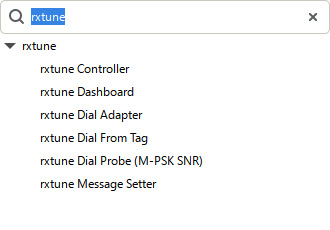
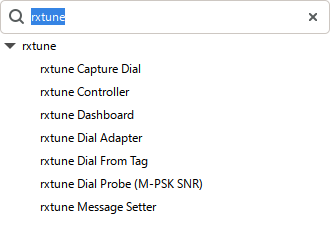
Overnight campaign written up; counting-dial verdict wording; controller mode string; walkthrough: the loop on a real radio; seven-block tree shot

diff --git a/src/rxtune/verdict.py b/src/rxtune/verdict.py
@@ -90,8 +90,8 @@ def observed_cliff(result: SearchResult, spec: DialSpec, max_spread: float = 1.5
     decoding, the curve itself brackets it: the best STEADY cell that did not decode
     and the worst steady cell that did. Unsteady cells are excluded - a median taken
     across bursts says little about where the cliff is."""
-    if spec.cliff is not None:
-        return None
+    if spec.cliff is not None or not spec.continuous_below_cliff:
+        return None                        # a counting dial has no threshold to bracket
     steady = [p for p in result.points if p.score is not None and p.reading.spread <= max_spread
               and p.reading.alive is not None and not (p.reading.overload == p.reading.overload
                                                        and p.reading.overload >= 0.3)]
@@ -148,6 +148,11 @@ def judge(result: SearchResult, spec: DialSpec, gain_of: Callable[[Point], float
         rep.evidence["messages_counted"] = float(counted)
         if counted < MIN_COUNTED:
             recommend = False
+            if rep.shape in RECOMMENDABLE:
+                # "HEALTHY ... not recommended" reads as a contradiction: say what it is
+                rep.shape = Shape.UNPROVEN
+                rep.rule = (f"{counted} decoded message(s) is not enough evidence to call any "
+                            "setting better than another")
             rep.notes.append(f"only {counted} decoded message(s) in the whole run (< {MIN_COUNTED}): "
                              "too few to rank settings. Repeat with more traffic or longer windows.")
 

diff --git a/python/rxtune/controller.py b/python/rxtune/controller.py
@@ -236,7 +236,7 @@ class controller(gr.basic_block):
         self.message_port_pub(pmt.intern("status"), pmt.to_pmt(_plain(
             {"state": self.state, "reason": "cell start", "setting": setting, "settle_s": settle,
              "window_scale": scale, "cell": len(self.tuner.result.points) + 1,
-             "mode": "device-handle" if self.frontend is not None else "message"})))
+             "mode": self._mode()})))
         self.acc = Accumulator(self.spec, time.monotonic(), settle_s=self.spec.settle_s + settle,
                                window_s=self.spec.window_s * scale)
 
@@ -297,11 +297,14 @@ class controller(gr.basic_block):
         else:
             self._sag_since = None
 
+    def _mode(self):
+        return ("device-handle" if self.frontend is not None else
+                "message + readback" if self._readback_seen else "message (open-loop)")
+
     def _status(self, reason, reading=None):
         n = len(self.tuner.result.points) if self.tuner else 0
         doc = {"state": self.state, "cell": n, "setting": dict(self.pending or {}), "reason": reason,
-               "mode": ("device-handle" if self.frontend is not None else
-                        "message + readback" if self._readback_seen else "message (open-loop)")}
+               "mode": self._mode()}
         if reading is not None:
             doc.update({"value": reading.value, "alive": reading.alive, "level_db": reading.level_db,
                         "overload": reading.overload, "n": reading.n})

diff --git a/tests/test_core.py b/tests/test_core.py
@@ -392,3 +392,20 @@ def test_one_failed_knob_does_not_stop_the_others_being_written():
         apply(FE(), {"antenna": "B", "g": 7})
     assert box["g"] == 7, "the gain knob must still have been written"
     assert "antenna" in str(e.value)
+
+
+def test_a_counting_dial_needs_evidence_before_it_may_rank():
+    """From the ADS-B hardware runs: 2 and then 5 messages in a whole search."""
+    from rxtune.dial import Reading
+    from rxtune.verdict import judge
+    spec = DialSpec("msg_rate", "msgs/s", continuous_below_cliff=False, settle_s=0, window_s=1)
+    axis = Axis.of(KnobSpec("g", "range", 0, 3, 1, sense="gain"))
+
+    def measure(setting):
+        n = [0, 3, 2, 0][setting["g"]]
+        return Reading(value=n / 10.0, score=n / 10.0, n=max(1, n), p10=n / 10.0, p90=n / 10.0, alive=n > 0)
+    t = Tuner([axis], spec, pick="max", confirm=False)
+    v = judge(t.run(measure), spec, t.gain_of)
+    assert v.shape is Shape.UNPROVEN and not v.ok
+    assert not any("decode threshold" in n for n in v.notes)
+    assert any("too few to rank" in n for n in v.notes)

diff --git a/docs/TEST_REPORT.md b/docs/TEST_REPORT.md
@@ -13,7 +13,7 @@ How to repeat everything is at the end.
 
 | Area | Result |
 |---|---|
-| Core library, no radio (pytest) | **124 passed**, 0 failed |
+| Core library, no radio (pytest) | **126 passed**, 0 failed |
 | `rxtune selftest` | **13 / 13 gates PASS** |
 | GNU Radio block QA (9 files) | **22 passed**, 0 failed |
 | Closed loop over stock DSP, headless, no Qt | **PASS** |
@@ -23,11 +23,12 @@ How to repeat everything is at the end.
 | Hardware: FM HD (NRSC-5), attachment mode (a) | **PASS** on the third run — HEALTHY, decoding, agrees with an independent prior calibration (runs 1-2 found 3 defects) |
 | Hardware: ATSC 1.0, attachment mode (c) | **PASS** — HEALTHY, +2.9 dB, decoding. Graceful decoder stop FAILED 16 / 27 in the first run; fixed; re-test 0 / 7 |
 | Hardware: ATSC 3.0 (library AND in a GRC flowgraph), port survey, TV in a GNU Radio window | **PASS** - see 6b |
-| Hardware: ADS-B (blind dial) | **INCONCLUSIVE** - too little night traffic; to be repeated |
+| Hardware: ADS-B (blind dial) | **INCONCLUSIVE** twice (1 a.m. and 6 a.m.): too few messages on this antenna; the verdict refuses to rank |
+| Overnight recalibration loop, 5 h unattended | **PASS** - 10 / 10 HEALTHY; the carrier did not go stale, so staleness itself was not demonstrated |
 | CMake install | **NOT RUN** (no cmake on this machine) |
 | Linux / Raspberry Pi | **NOT RUN** |
 
-Twenty defects were found by this testing and fixed; three defects were found in
+Twenty-two defects were found by this testing and fixed; three defects were found in
 *other people's* blocks and are written up in §8.
 
 ## 1. Core library (`pytest`, 118 tests, ~4 s)
@@ -271,7 +272,32 @@ pure-Python project that was not modified; rxtune only runs its commands.
   and `tune()`'s exit released it. The adapter is now re-entrant.
 
 Not done: the bias-T / hot-LNA case (no LNA was inline; DC was not put on a passive antenna).
-Overnight recalibration results: see the end of this section once the run completes.
+**Overnight recalibration** (`util/night_watch.py`, detached, one ATSC 3.0 carrier re-tuned every
+30 minutes from 01:24 to 05:54, 12 cells per round, lab-priority lock, no contention):
+
+| | |
+|---|---|
+| calibrations | **10 of 10 `HEALTHY`, decoding** |
+| best dial | 22.2 .. 23.3 dB SNR (swing 1.1 dB) |
+| best setting | 3 distinct picks, all within one LNA state and mostly the same IF reduction |
+
+Honest reading: the loop, the detached launcher, the lock discipline and the hour log all
+held up for five hours unattended - but **this carrier did not go stale tonight**, so the claim
+"every configuration goes stale, recalibrate forever" was *exercised*, not *demonstrated*. It
+needs a carrier that actually moves (the weak LDM carrier would, if it decoded here at all).
+
+**ADS-B again at 06:20** with morning traffic starting: still thin on this antenna - 5 CRC-valid
+messages across the search. Head-to-head, three interleaved rounds of 15 s captures: rxtune's
+pick 0.7 msgs/s, maximum gain 0.4, hardware AGC 0.1. Suggestive; with ~20 messages in total it
+is **not significant**, and the verdict says so (`UNPROVEN`, nothing recommended). A real ADS-B
+antenna and daytime traffic are needed before this comparison means anything.
+
+The first two launches of the overnight loop failed, and one of them found the most
+dangerous bug of the night: an antenna port name containing a space was mangled by shell quoting,
+its readback failed, and `apply()` **stopped at the first failed knob - so the gain knobs were
+never written**. Every cell measured the same radio state. It was caught only because the raw
+level did not move between cells. `apply()` now writes every knob and reports failures
+afterwards; the scheduler takes its targets from a JSON file, not a quoted string.
 
 ## 7. Defects found by this testing, all fixed
 
@@ -302,6 +328,8 @@ Overnight recalibration results: see the end of this section once the run comple
 18. A pick whose confirmation did not reproduce was allowed to stand.
 19. A message-rate dial ranked settings on two messages; now needs 200.
 20. The GNU Radio capture block converted every sample in Python and dropped samples silently.
+21. `apply()` stopped at the first knob whose readback failed: the remaining knobs were never written.
+22. Verdict wording for counting dials: a "decode threshold" in msgs/s, and "HEALTHY ... not recommended".
 
 Also caught in the test harness itself: a rate probe goes *stale*, not to zero,
 when its upstream dies (so it cannot detect a stopped source — count items

diff --git a/docs/WALKTHROUGH.md b/docs/WALKTHROUGH.md
@@ -27,7 +27,7 @@ the `gnuradio` package. For day-to-day GRC use, install.
 > If GRC, `grcc` or `gr_modtool` behave as if they belonged to a different GNU
 > Radio, look for a stale `GR_PREFIX` or `GRC_BLOCKS_PATH` in your environment.
 
-Open the block tree and search `rxtune`. You should see six blocks:
+Open the block tree and search `rxtune`. You should see seven blocks:
 
 ![The rxtune category in GRC's block tree](img/grc_block_tree.png)
 
@@ -132,6 +132,40 @@ Replace row 3 with your decoder and give the controller its quality number:
 
 Outside GNU Radio the same loop is a few lines of Python; see `docs/USAGE.md`
 and `examples/hw_nrsc5.py`, which tunes a radio against an unmodified `nrsc5`.
+
+## 3b. The same loop on a real radio: ATSC 3.0
+
+`examples/atsc3_live.grc` is what section 3 describes, built: an SDRplay on a live
+NextGen TV carrier, judged by an external (non-GNU-Radio) ATSC 3.0 receiver.
+
+![The real-radio flowgraph](img/grc_atsc3_live.png)
+
+- **Soapy SDRPlay Source** - its `cmd` port takes the controller's per-element gain
+  messages (`{"gain": {"name": "IFGR", "gain": 40.0}}`) directly. No setter block needed.
+- **rxtune Capture Dial** - this receiver's honest quality number only exists offline, so
+  at each cell the block records five seconds and hands the file to the receiver's own
+  tools: SNR read off the frame's known cells (the dial), and a real decode (the proof).
+  The pair comes from `rxtune.recipes.atsc3(...)`. Its `.cf32` path matters: a Python block
+  that converts every sample cannot keep up with a 7 MS/s radio, and a capture with dropped
+  samples is garbage of exactly the right length. The block voids any capture whose sample
+  count does not match the clock.
+- Frequency, antenna port and the receiver's location are **Parameters** - nothing about
+  any station is stored in the flowgraph.
+
+Mid-search - the waterfall shows the controller stepping the gain; grey cells clipped or did
+not decode, green ones decode:
+
+![Searching](img/atsc3_live_searching.png)
+
+Done - `HEALTHY`, 23 dB, decoding; the pick (white box) is in the steady green region and
+was confirmed by a second, longer look; the verdict also reports the decode threshold it
+*observed* (cells at ~14 dB did not decode, cells at ~21 dB did):
+
+![Verdict](img/atsc3_live_run.png)
+
+`examples/hw_atsc3_tv_window.py` goes one step further: GNU Radio owns the radio and streams
+IQ to the receiver, whose player renders *into a pane of the flowgraph window* - television
+inside GNU Radio, from a decoder that is not made of GNU Radio blocks, at the gain rxtune chose.
 
 ## 4. Two traps this flowgraph is built to teach
 

diff --git a/README.md b/README.md
@@ -58,6 +58,7 @@ to compile):
 | **rxtune Dial Probe (M-PSK SNR)** | Stream in, dial out, stock `probe_mpsk_snr_est_c` inside — examples run with no custom decoder. |
 | **rxtune Dial From Tag** | Turns a quality *tag* (e.g. `mpsk_snr_est_cc`'s `snr`) into a dial. |
 | **rxtune Dial Adapter** | A decoder's own telemetry in, a dial out. Ships ATSC (equaliser training error → MER) and NRSC-5 / HD Radio (nrsc5 MER, BER). |
+| **rxtune Capture Dial** | For decoders whose honest quality number only exists offline: records a few seconds per cell and lets the decoder's own tools judge the file (dial + proof of decode). |
 | **rxtune Message Setter** | Command in, setter *method call* on another block, with readback. For everything that has no message port. |
 | **rxtune Dashboard** | Optional Qt widget: live dial, gain-grid heatmap, verdict text. Docks like any QT GUI widget. |
 
@@ -73,6 +74,14 @@ a peak, and the collapse where the neighbour hits the converter's rails:
 
 ![The loopback example running](docs/img/loopback_qtgui.png)
 
+On a **real radio**: `examples/atsc3_live.grc` tunes an SDRplay on a live ATSC 3.0
+(NextGen TV) carrier. The controller sets both gain elements **by message** on the stock
+Soapy source; an external receiver judges a short capture at every cell (SNR off the
+frame's known cells, plus an actual decode as proof); grey = clipped or no decode, green =
+decodes. The white box is the pick, confirmed by a second, longer look:
+
+![rxtune tuning a real radio on ATSC 3.0 inside a GRC flowgraph](docs/img/atsc3_live_run.png)
+
 The blocks in GRC's tree:
 
 ![The rxtune category in GRC's block tree](docs/img/grc_block_tree.png)
@@ -83,7 +92,9 @@ Most decoders grab the SDR themselves, and then nothing else can touch the gain.
 So decoders attach in one of three ways, in this order of preference:
 
 - **(a) rxtune owns the SDR and pipes IQ to the decoder** — stdin, a file, ZMQ,
-  or a flowgraph. `examples/hw_nrsc5.py` drives an *unmodified* `nrsc5` this way.
+  or a flowgraph. `examples/hw_nrsc5.py` drives an *unmodified* `nrsc5` this way;
+  `examples/hw_atsc3_capture.py` records a few seconds per cell and lets an ATSC 3.0
+  receiver's own offline tools judge the file.
 - **(b) the decoder exposes a runtime control** — wrap it in a ten-line adapter.
 - **(c) restart the decoder for every grid cell** — slow calibration only.
   `examples/hw_atsc_stvt.py`.

diff --git a/CHANGELOG.md b/CHANGELOG.md
@@ -17,4 +17,8 @@ First extraction of the adaptive tuning loop into a standalone project.
 - `gnuradio.rxtune` blocks (GNU Radio 3.10, Python only): Controller, Dial Probe
   (M-PSK SNR), Dial From Tag, Dial Adapter (ATSC MER, NRSC-5 MER/BER), Message
   Setter, Qt Dashboard; GRC definitions; radio-free loopback examples.
+- Capture-per-cell attachment (`attach.CaptureMeasurer`, GNU Radio Capture Dial block),
+  `rxtune.recipes` (ATSC 3.0, Mode S), a real-radio GRC example, a TV-in-a-GNU-Radio-window
+  example, `util/night_watch.py`, observed decode threshold, re-pick on failed confirmation,
+  minimum evidence for counting dials.
 - docs: prior art, design, usage, migration plan for the parent projects, test report.
